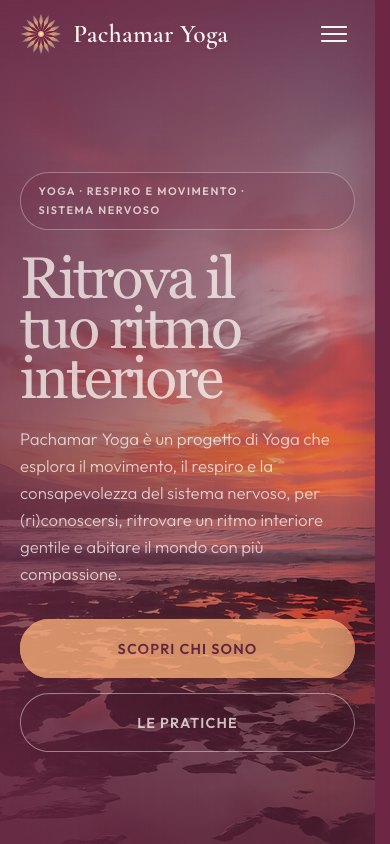
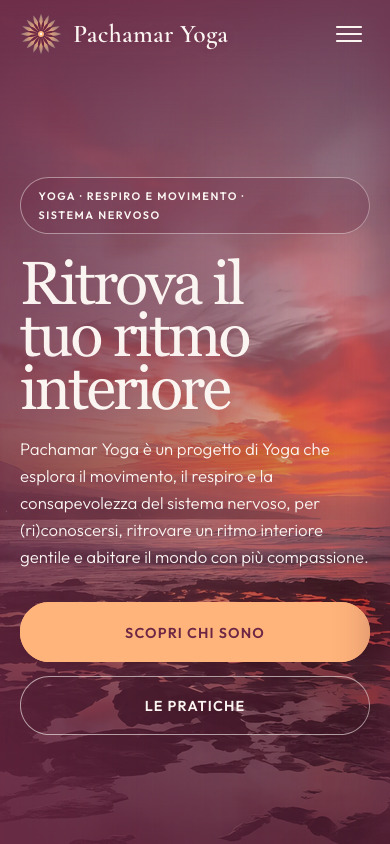
yyyyy

diff --git a/assets/css/style.css b/assets/css/style.css
@@ -442,6 +442,8 @@ picture{display:block}
 .slide__visual--pair{gap:clamp(12px,2vw,28px);align-items:flex-end}
 .slide__visual--pair .device--laptop{width:min(100%,540px)}
 .slide__visual--pair .device--phone{width:min(22%,130px);transform:translateY(12%)}
+/* telefono: il visual dedicato sostituisce il gruppo laptop+telefono */
+.slide--pachamar .slide__visual--pachamar-phone{display:none}
 
 /* ---------- filmstrip (solo in gallery) ---------- */
 .timeline{
@@ -895,16 +897,9 @@ picture{display:block}
     flex:0 0 auto;
     transform:none;
   }
-  .slide--pachamar .device--laptop{
-    display:none;
-  }
-  .slide--pachamar .device--phone{
-    width:min(100%,130px);
-    /* La regola --pair limita il telefono a 75 px: qui il laptop è nascosto
-       e il telefono deve occupare la stessa larghezza delle altre card. */
-    max-width:none;
-    transform:none;
-  }
+  /* Pachamar su telefono: stesso schema di Strati, senza il gruppo pair */
+  .gallery .slide--pachamar .slide__visual--pair{display:none}
+  .gallery .slide--pachamar .slide__visual--pachamar-phone{display:flex}
   /* Timeline: immagini +25%; a card aperta restano le dimensioni safe. */
   .gallery:not(.is-zoomed) .device--laptop{width:min(125%,350px)}
   .gallery:not(.is-zoomed) .device--phone{width:min(125%,162.5px)}
@@ -916,18 +911,9 @@ picture{display:block}
     width:32.5%;
     max-width:93.75px;
   }
-  .gallery:not(.is-zoomed) .slide--pachamar .device--phone{
-    width:min(125%,162.5px);
-    max-width:none;
-  }
-  .gallery:not(.is-zoomed) .slide--pachamar .slide__visual{
+  .gallery:not(.is-zoomed) .slide--pachamar .slide__visual--pachamar-phone{
     transform:scale(var(--pv));
     transform-origin:center center;
-  }
-  /* Nel file sorgente il contenuto è spostato ~15 px a destra: scala e
-     traslazione minime lo ricentrano senza scoprire i bordi del riquadro. */
-  .slide--pachamar .phone__screen img{
-    transform:translateX(-2%) scale(1.05);
   }
 
   /* Tipografia mobile zoomata */

diff --git a/index.html b/index.html
@@ -61,7 +61,7 @@
   })();
 </script>
 <link rel="preload" href="assets/fonts/geist-normal.woff2" as="font" type="font/woff2" crossorigin>
-<link rel="stylesheet" href="assets/css/style.css?v=20261126s">
+<link rel="stylesheet" href="assets/css/style.css?v=20261126r">
 
 <script type="application/ld+json" id="schema-person">
 {"@context":"https://schema.org","@type":"Person","name":"Michele Lana",
@@ -254,7 +254,15 @@
               </div>
               <div class="device device--phone">
                 <div class="phone__body">
-                  <div class="phone__screen"><img src="assets/img/screens/pachamar-mobile.jpg" alt="Versione mobile del sito Pachamar Yoga" width="390" height="844" loading="lazy" decoding="async"></div>
+                  <div class="phone__screen"><img src="assets/img/screens/pachamar-mobile.jpg?v=20261126r" alt="Versione mobile del sito Pachamar Yoga" width="390" height="844" loading="lazy" decoding="async"></div>
+                </div>
+              </div>
+            </div>
+            <!-- Su telefono si usa solo il telefono, con la stessa struttura di Strati -->
+            <div class="slide__visual slide__visual--pachamar-phone">
+              <div class="device device--phone">
+                <div class="phone__body">
+                  <div class="phone__screen"><img src="assets/img/screens/pachamar-mobile.jpg?v=20261126r" alt="Versione mobile del sito Pachamar Yoga" width="390" height="844" loading="lazy" decoding="async"></div>
                 </div>
               </div>
             </div>
